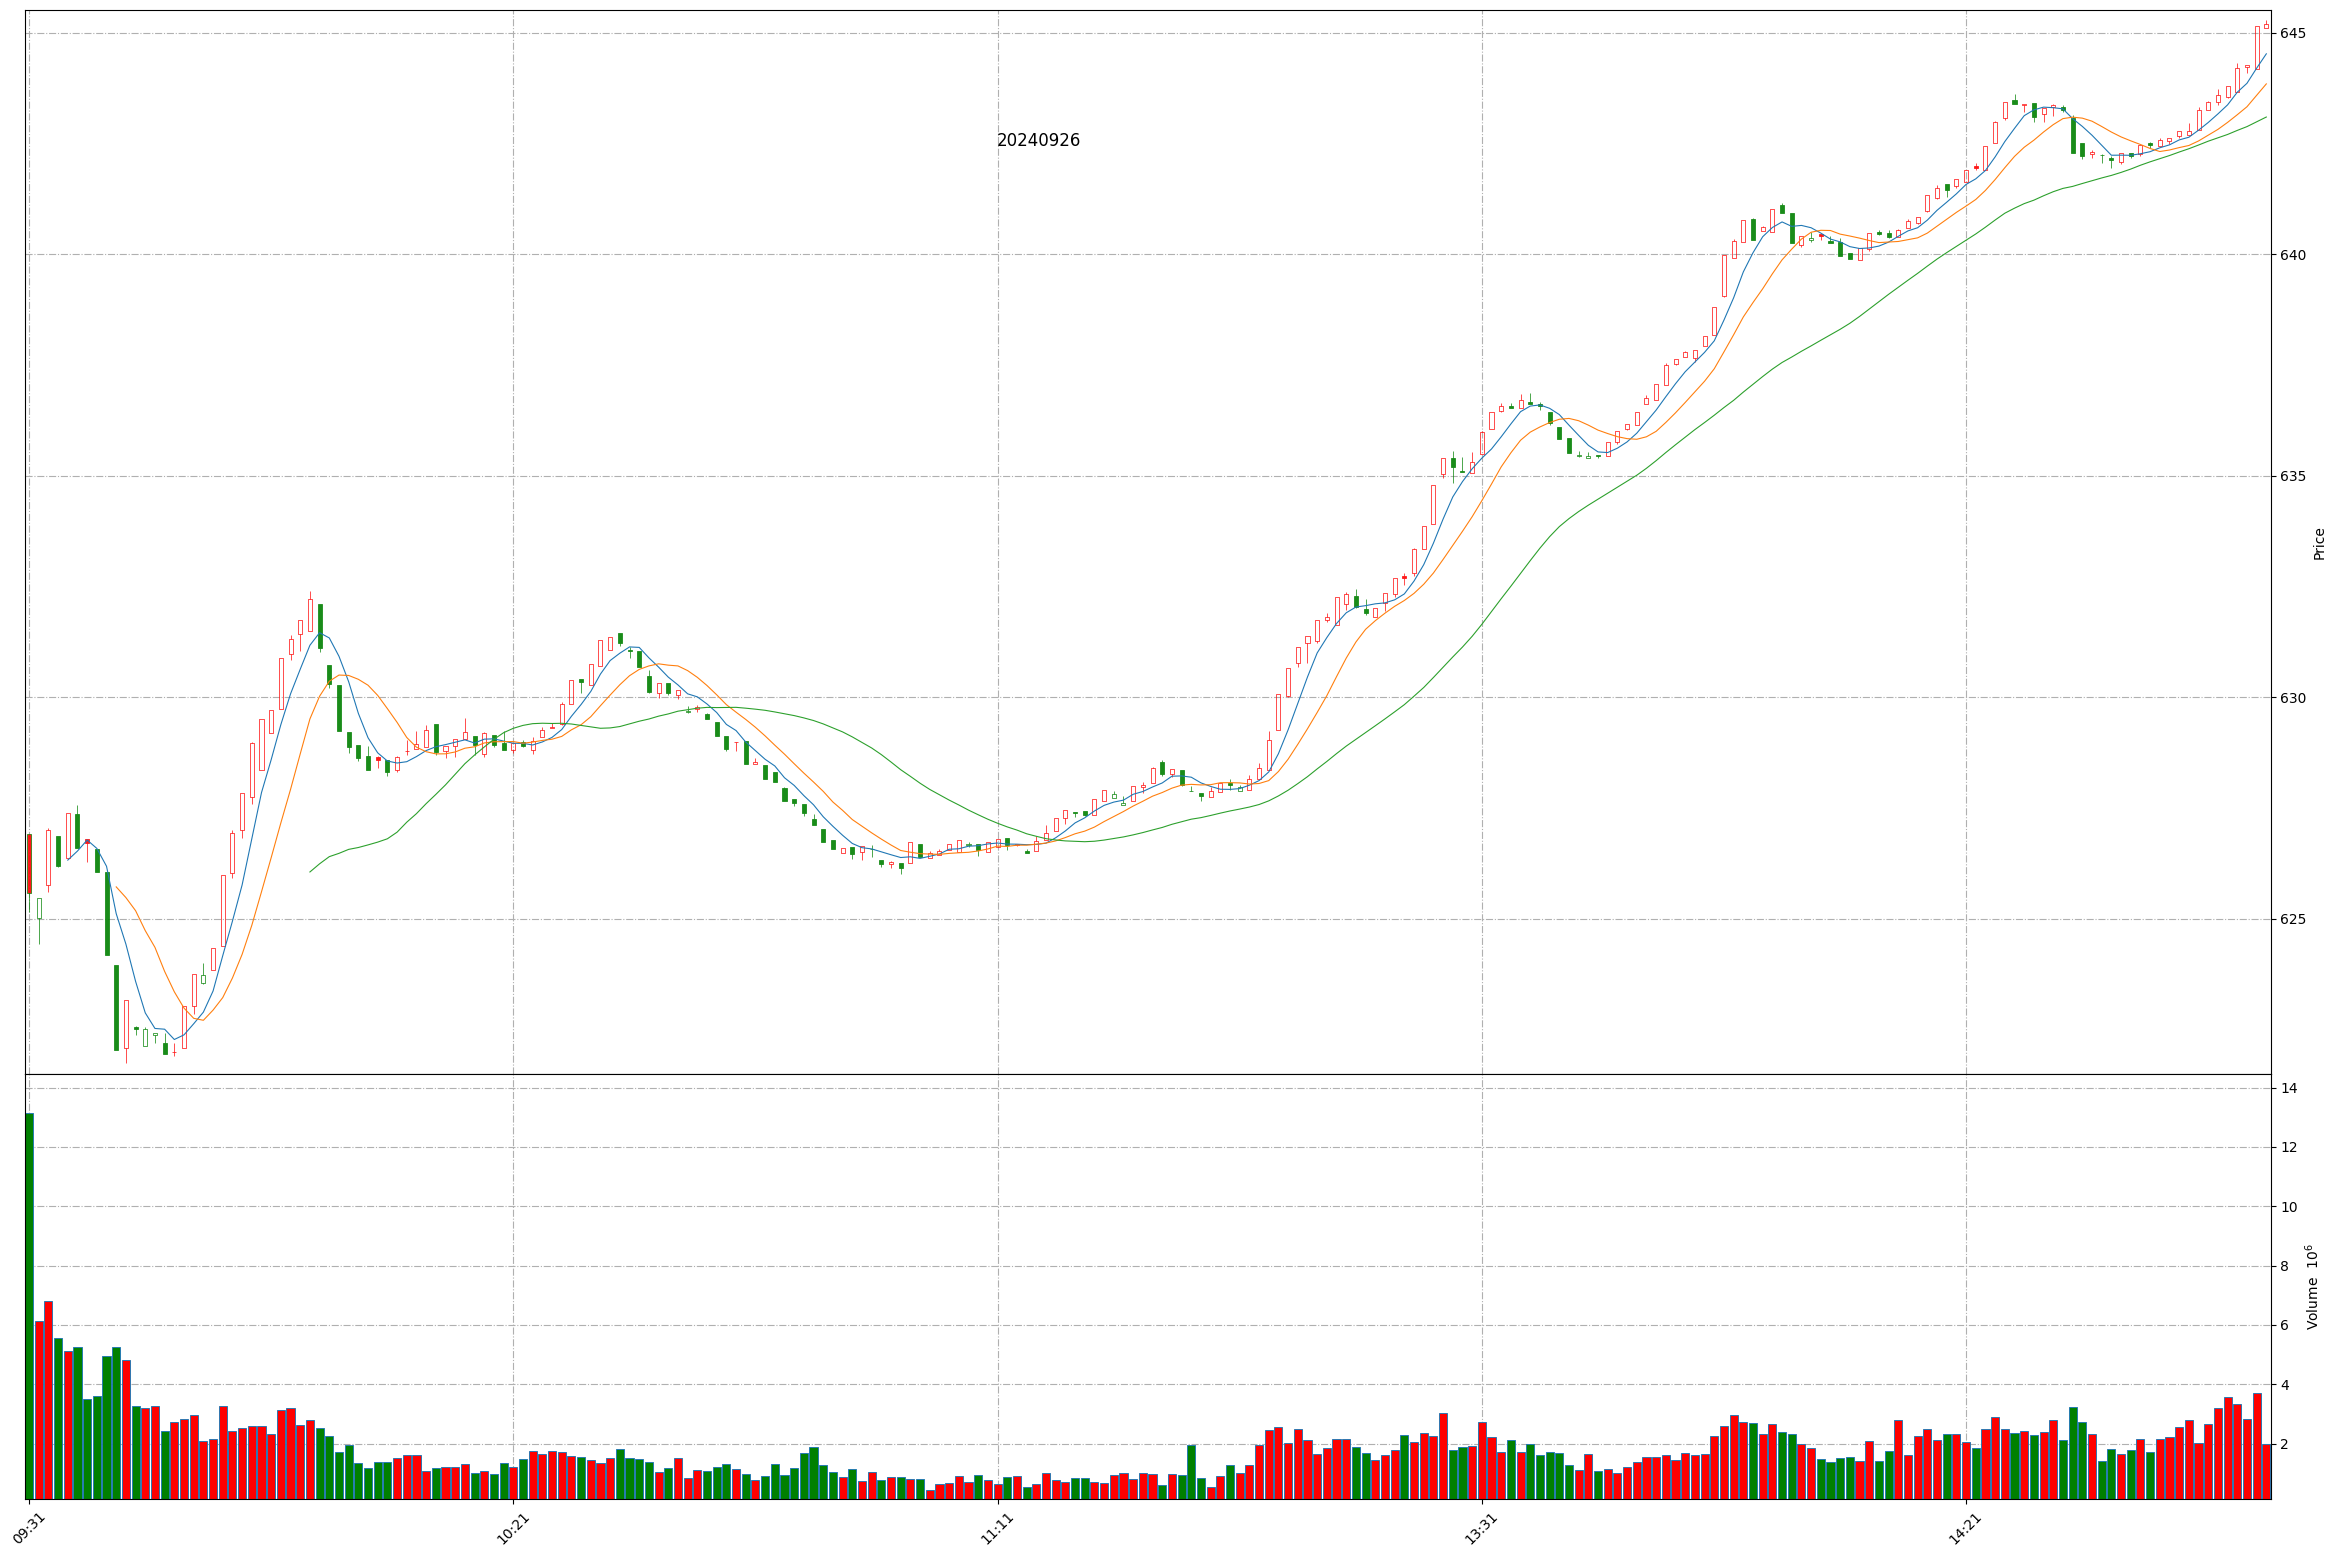
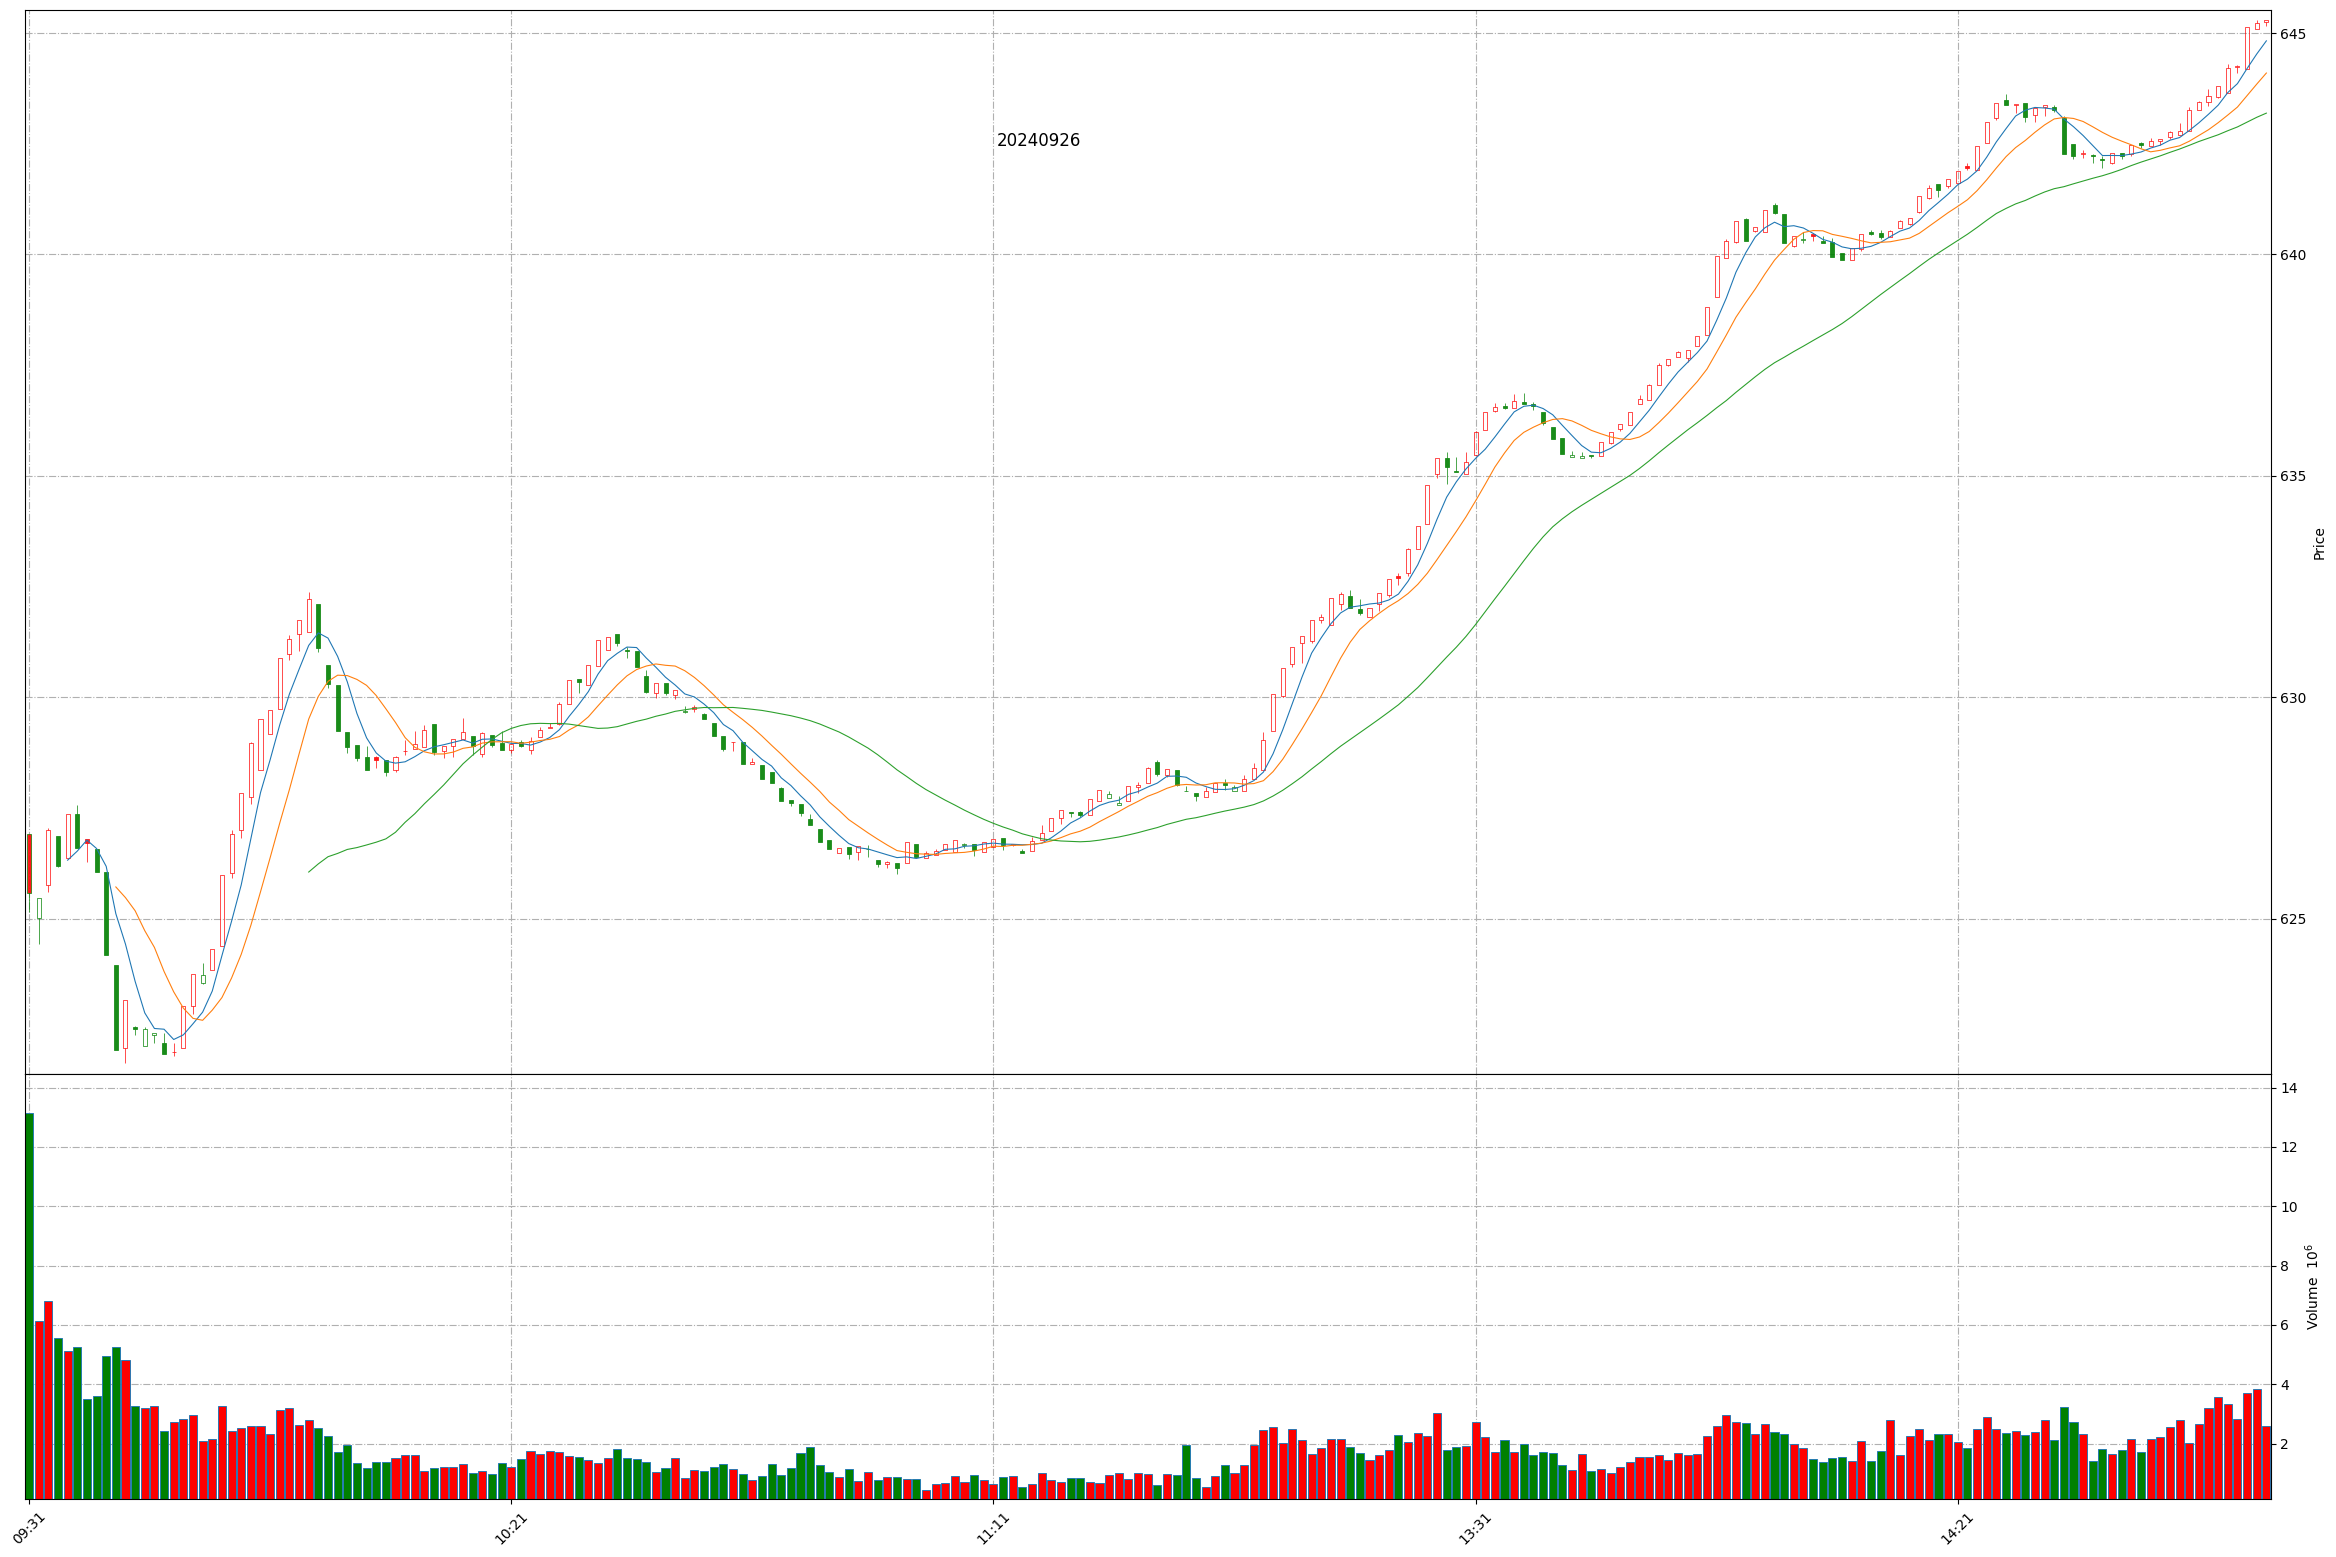
Github action update at 2024-09-26 14:52:56.

diff --git a/README.md b/README.md
@@ -1,11 +1,11 @@
 
 # Daily-A-share-market-quotes 每日 A 股指数（5min 更新）- 20240926
 
-### 上证指数 20240926 14:51
+### 上证指数 20240926 14:52
 ![](./fig/2024/9/20240926-sh000001.png)
 
-### 深证成指 20240926 14:51
+### 深证成指 20240926 14:52
 ![](./fig/2024/9/20240926-sz399001.png)
 
-### 北证50 20240926 14:51
+### 北证50 20240926 14:52
 ![](./fig/2024/9/20240926-bj899050.png)
